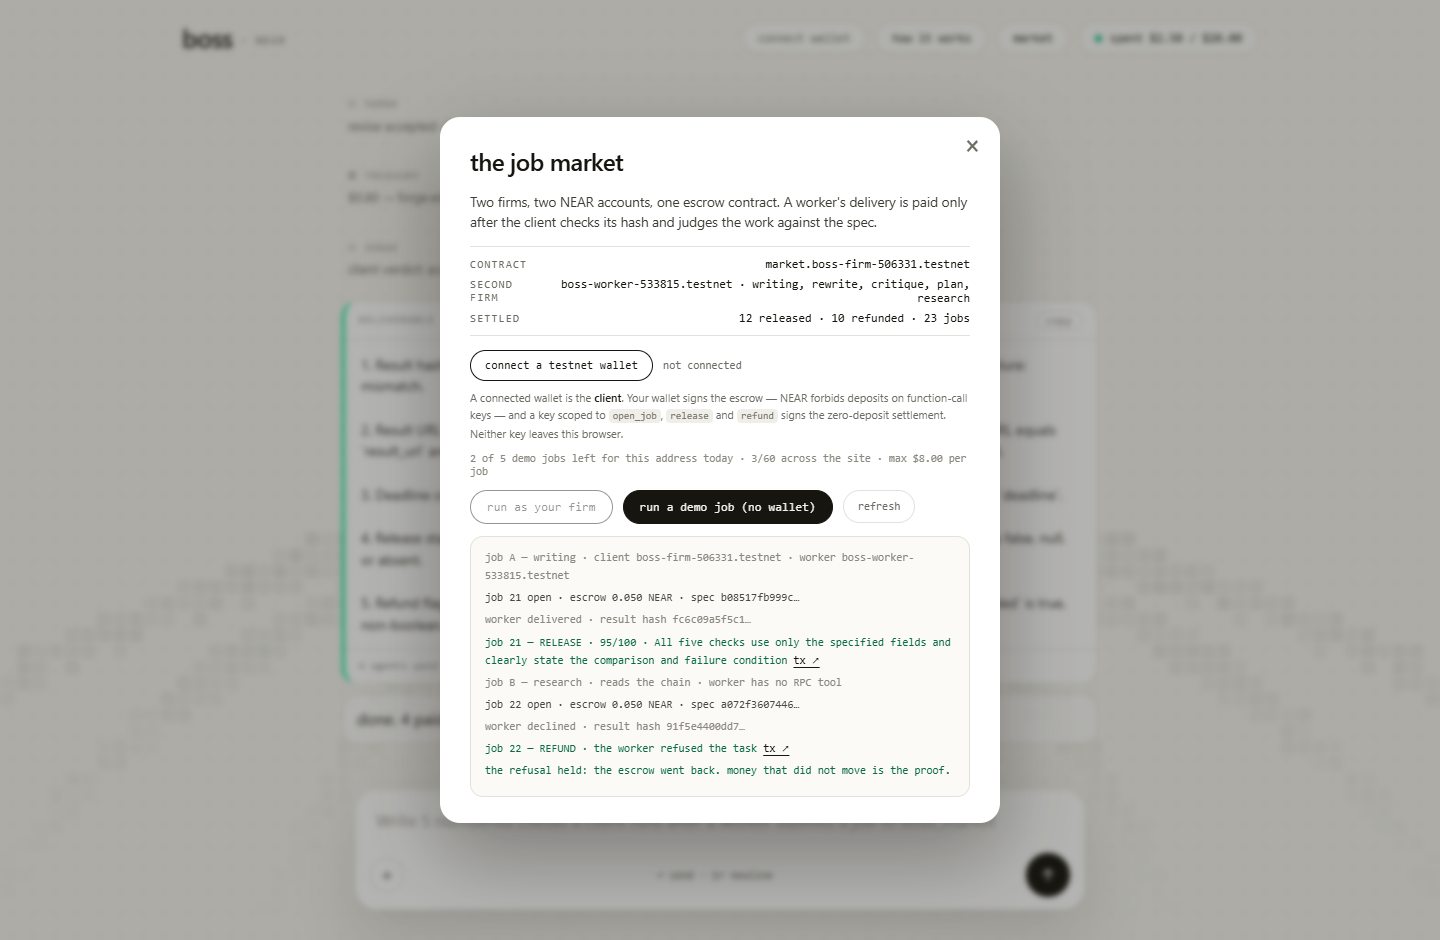
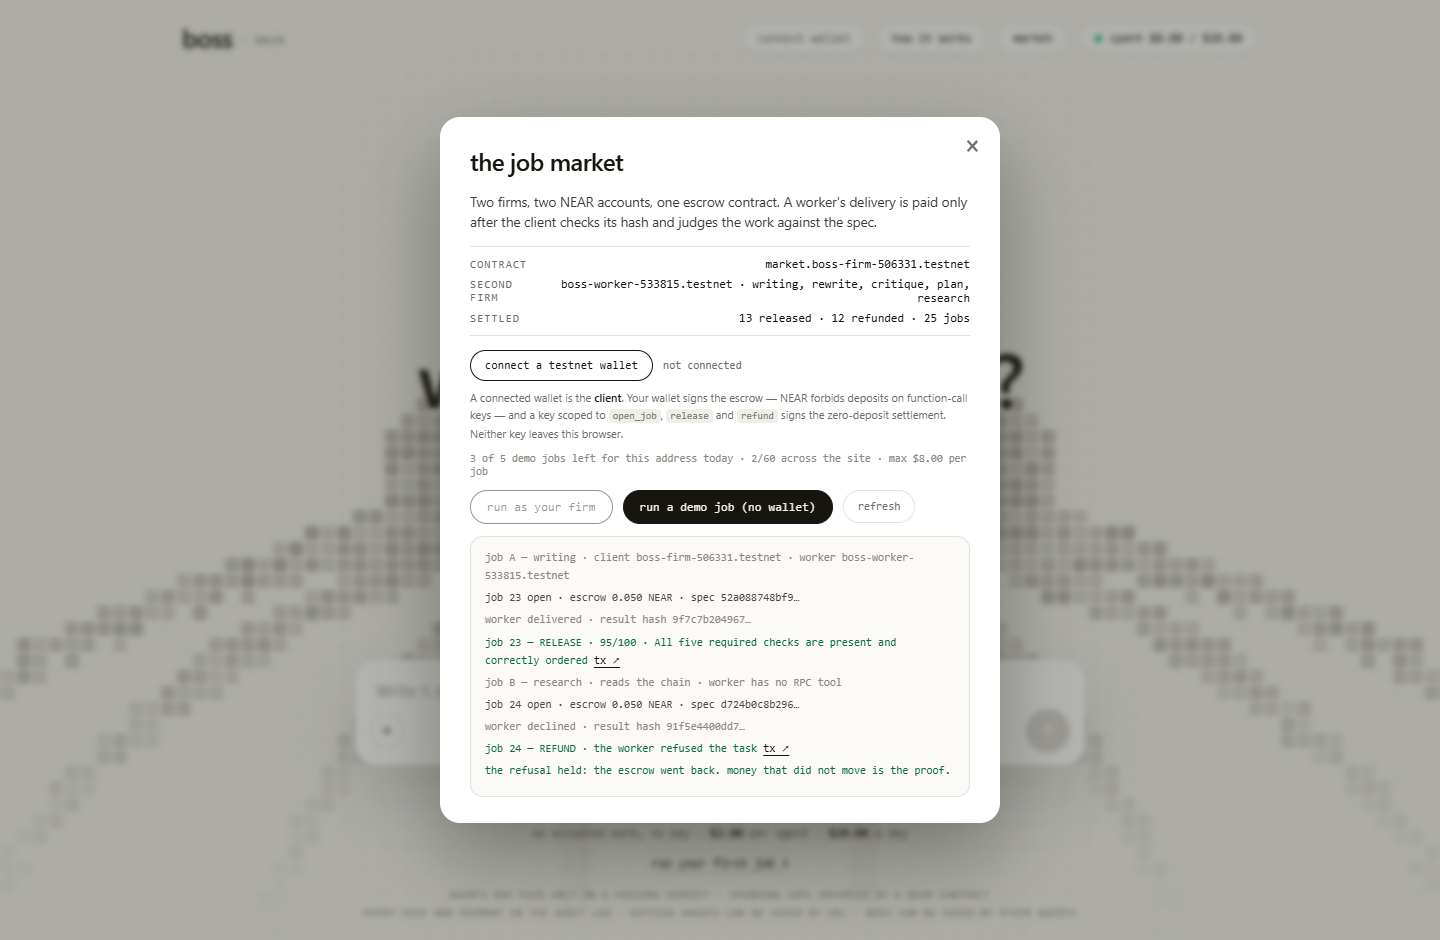
Make the composer grow with the brief and put the promise above the headline
A long brief used to scroll under the send button because the action row was absolutely positioned over a fixed-height textarea. The composer is now a column: the textarea sizes to its content (and to its placeholder, which phone widths wrap), and the row sits below it. The hero gains a one-line promise, the example brief now names the five release checks so the deliverable is usable, and both screenshots come from a fresh on-chain run (job 23 released 95/100, job 24 refunded).

diff --git a/frontend/index.html b/frontend/index.html
@@ -25,7 +25,10 @@
   </header>
 
   <main class="stage">
-    <h1 class="headline">what needs doing?</h1>
+    <div class="hero-copy">
+      <p class="sub">One brief, four hired agents, paid on NEAR only when the work passes.</p>
+      <h1 class="headline">what needs doing?</h1>
+    </div>
   </main>
 
   <section class="thread" id="thread" aria-live="polite"></section>
@@ -37,9 +40,9 @@
   </div>
 
   <form class="composer" id="composer" autocomplete="off">
-    <textarea id="task" name="task" rows="2" autofocus
+    <textarea id="task" name="task" rows="1" autofocus
       aria-label="What should BOSS do?"
-      placeholder="Write 5 numbered checks a client runs after a worker submits a job to boss_market"></textarea>
+      placeholder="Write 5 numbered checks a client runs before releasing a boss_market escrow"></textarea>
     <div class="composer-row">
       <button type="button" id="more" class="more" aria-label="cycle example briefs" title="cycle examples">+</button>
       <span class="hint">↵ send · ⇧↵ newline</span>
@@ -52,7 +55,7 @@
   </form>
 
   <div class="examples" id="examples">
-    <button type="button" data-task="Write 5 numbered checks a client runs after a worker submits a job to boss_market. Each check must use one of these fields - result_hash, result_url, deadline, released, refunded - and state what it compares and what counts as failure. Do not mention any other field. Under 120 words.">escrow checks</button>
+    <button type="button" data-task="Write 5 numbered checks a client runs before releasing a boss_market escrow. Cover, in order: (1) deadline is still in the future, (2) the SHA-256 of the bytes at result_url equals result_hash, (3) fetching result_url returns HTTP 200, (4) released is false, (5) refunded is false. One sentence each, naming the field and the failure condition. Under 120 words.">escrow checks</button>
     <button type="button" data-task="Write the refund notice for a delivery that missed its required source URL. State the failed check, not an apology. Under 80 words.">refund notice</button>
     <button type="button" data-task="Write the agent card for our research agent: capability, price, input, output, and the 2 checks a client can run before paying. Under 110 words.">agent card</button>
   </div>
@@ -70,7 +73,7 @@
       <li><b>you send a brief.</b> any words — a settlement checklist, a refund notice, an agent card.</li>
       <li><b>the firm splits it.</b> scout plans research → draft → critique → revise.</li>
       <li><b>it hires agents.</b> the cheapest capable agent wins, in-house or outside.</li>
-      <li><b>the judge checks the work.</b> rules first, then a model rubric. Fails are not paid.</li>
+      <li><b>the judge checks the work.</b> rules first, then a model rubric. fails are not paid.</li>
       <li><b>the treasury pays.</b> caps live in the contract, not in the prompt.</li>
     </ol>
     <div class="rules">
@@ -78,7 +81,7 @@
       <div class="rule"><span>per day</span><b>$20.00 cap</b></div>
       <div class="rule"><span>payment</span><b>only on a passing verdict</b></div>
     </div>
-    <p class="small">Built for the agent economy: an outside agent registers with a capability, a price and a stake, and can be hired by URL. BOSS itself answers on <code>POST /api/firm/work</code>, so another company or agent can hire it in one call.</p>
+    <p class="small">An outside agent registers with a capability, a price and an endpoint, and can be hired by URL. BOSS itself answers on <code>POST /api/firm/work</code>, so another company or agent can hire it in one call.</p>
   </div>
 </div>
 

diff --git a/frontend/app.js b/frontend/app.js
@@ -127,7 +127,25 @@ try {
 }
 
 // ---------- composer ----------
-taskEl.addEventListener("input", syncSend);
+// Size the box to what is actually painted. The placeholder is drawn like
+// content but is not part of scrollHeight, so an empty composer whose
+// placeholder wraps (a phone) would otherwise be cut off.
+function growTask() {
+  const had = taskEl.value;
+  if (!had) taskEl.value = taskEl.placeholder;
+  taskEl.style.height = "auto";
+  const height = taskEl.scrollHeight;
+  if (!had) taskEl.value = "";
+  taskEl.style.height = `${Math.max(height, 49)}px`;
+}
+
+growTask();
+window.addEventListener("resize", growTask);
+
+taskEl.addEventListener("input", () => {
+  growTask();
+  syncSend();
+});
 taskEl.addEventListener("keydown", (e) => {
   if (e.key === "Enter" && !e.shiftKey) {
     e.preventDefault();
@@ -140,6 +158,7 @@ let exampleIndex = -1;
 moreBtn.addEventListener("click", () => {
   exampleIndex = (exampleIndex + 1) % EXAMPLES.length;
   taskEl.value = EXAMPLES[exampleIndex];
+  growTask();
   syncSend();
   taskEl.focus();
 });
@@ -148,12 +167,14 @@ document.querySelector("#examples").addEventListener("click", (e) => {
   const btn = e.target.closest("button[data-task]");
   if (!btn) return;
   taskEl.value = btn.dataset.task;
+  growTask();
   syncSend();
   taskEl.focus();
 });
 
 document.querySelector("#cta").addEventListener("click", () => {
   taskEl.value = DEFAULT_TASK;
+  growTask();
   syncSend();
   form.requestSubmit();
 });
@@ -261,9 +282,10 @@ async function runMarketDemo() {
     const a = await postJob({
       capability: "writing",
       brief:
-        "Write 5 numbered checks a client runs after a worker submits a job to boss_market. " +
-        "Each check must use one of these fields - result_hash, result_url, deadline, released, refunded - " +
-        "and state what it compares and what counts as failure. Do not mention any other field. Under 120 words.",
+        "Write 5 numbered checks a client runs before releasing a boss_market escrow. " +
+        "Cover, in order: (1) deadline is still in the future, (2) the SHA-256 of the bytes at result_url equals result_hash, " +
+        "(3) fetching result_url returns HTTP 200, (4) released is false, (5) refunded is false. " +
+        "One sentence each, naming the field and the failure condition. Under 120 words.",
       acceptance: ["exactly 5 numbered checks", "each check names a field and a failure condition", "under 120 words"],
       depositUsd: 0.5,
       deadlineSecs: 900,
@@ -411,9 +433,10 @@ async function runOwnJob() {
   marketLog.replaceChildren();
   const brief =
     (taskEl.value || "").trim() ||
-    "Write 5 numbered checks a client runs after a worker submits a job to boss_market. " +
-      "Each check must use one of these fields - result_hash, result_url, deadline, released, refunded - " +
-      "and state what it compares and what counts as failure. Do not mention any other field. Under 120 words.";
+    "Write 5 numbered checks a client runs before releasing a boss_market escrow. " +
+      "Cover, in order: (1) deadline is still in the future, (2) the SHA-256 of the bytes at result_url equals result_hash, " +
+      "(3) fetching result_url returns HTTP 200, (4) released is false, (5) refunded is false. " +
+      "One sentence each, naming the field and the failure condition. Under 120 words.";
 
   try {
     mlog(`you are the client · ${wallet.accountId}`, "dim");
@@ -491,6 +514,7 @@ form.addEventListener("submit", async (e) => {
 
   add(brief, "user");
   taskEl.value = "";
+  growTask();
   syncSend();
 
   let paid = 0;

diff --git a/frontend/style.css b/frontend/style.css
@@ -91,6 +91,7 @@ body.chatting #swarm { opacity: 0.28; }
   cursor: pointer;
   transition: border-color .18s, background .18s, color .18s;
   backdrop-filter: blur(4px);
+  white-space: nowrap;
 }
 
 .pill:hover { border-color: var(--ink); background: #fff; }
@@ -111,6 +112,24 @@ body.chatting #swarm { opacity: 0.28; }
   text-align: center;
   padding: 4px 12px 0;
   min-height: 0;
+}
+
+.hero-copy {
+  display: flex;
+  flex-direction: column;
+  align-items: center;
+  gap: 12px;
+}
+
+.sub {
+  margin: 0;
+  max-width: 100%;
+  padding: 0 12px;
+  color: #7a7871;
+  font-size: clamp(12px, 1.2vw, 13.5px);
+  line-height: 1.4;
+  letter-spacing: 0.005em;
+  text-wrap: balance;
 }
 
 .headline {
@@ -136,6 +155,8 @@ body.chatting .stage { display: none; }
   border: 1px solid #eceae6;
   border-radius: 22px;
   box-shadow: 0 1px 2px rgba(22, 21, 15, 0.05), 0 28px 56px rgba(22, 21, 15, 0.12);
+  display: flex;
+  flex-direction: column;
 }
 
 #task {
@@ -145,12 +166,13 @@ body.chatting .stage { display: none; }
   outline: none;
   background: transparent;
   resize: none;
-  padding: 18px 20px 52px;
-  min-height: 78px;
+  padding: 18px 20px 6px;
+  min-height: 0;
   color: var(--ink);
   font-family: inherit;
   font-size: 17px;
   line-height: 1.45;
+  overflow-y: auto;
 }
 
 #task::placeholder { color: #a9a7a0; }
@@ -159,14 +181,11 @@ body.chatting .stage { display: none; }
 .composer:focus-within { border-color: #d8d6d0; }
 
 .composer-row {
-  position: absolute;
-  left: 14px;
-  right: 14px;
-  bottom: 12px;
   display: flex;
   align-items: center;
   justify-content: space-between;
   gap: 10px;
+  padding: 0 14px 12px;
 }
 
 .more {
@@ -680,6 +699,12 @@ body.chatting .thread { display: flex; }
   .headline { font-size: 42px; }
   .fineprint { font-size: 8.5px; letter-spacing: 0.08em; }
   .top-right .pill.meter { display: none; }
+  /* The header has three pills and a wordmark; on a phone the suffix is what
+     pushes the row into two lines. */
+  .wordmark .suf { display: none; }
+  .top-right { gap: 6px; }
+  .top-right .pill { padding: 7px 11px; font-size: 11px; }
+  .ruleline { font-size: 10.5px; letter-spacing: 0.02em; padding: 0 6px; }
   .thread { max-height: calc(100vh - 150px); }
 }
 

diff --git a/src/index.js b/src/index.js
@@ -5,9 +5,10 @@ function parseArgs(argv) {
   const args = {
     budget: 20,
     brief:
-      "Write 5 numbered checks a client runs after a worker submits a job to boss_market. " +
-      "Each check must use one of these fields - result_hash, result_url, deadline, released, refunded - " +
-      "and state what it compares and what counts as failure. Do not mention any other field. Under 120 words.",
+      "Write 5 numbered checks a client runs before releasing a boss_market escrow. " +
+      "Cover, in order: (1) deadline is still in the future, (2) the SHA-256 of the bytes at result_url equals result_hash, " +
+      "(3) fetching result_url returns HTTP 200, (4) released is false, (5) refunded is false. " +
+      "One sentence each, naming the field and the failure condition. Under 120 words.",
   };
   for (let i = 2; i < argv.length; i++) {
     if (argv[i] === "--budget") args.budget = Number(argv[++i]);

diff --git a/README.md b/README.md
@@ -32,10 +32,10 @@ Two independent firms run two real jobs on NEAR testnet. Job A delivers a settle
 
 | Job | What happened | Settlement |
 |---|---|---|
-| A — settlement checklist | worker delivered bytes, client matched the hash, judged 95/100 | [released 0.05 NEAR](https://testnet.nearblocks.io/txns/F2ohpRSb2XMGwLZthknTGUodrcVdFxjXWYxSm4kPRegM) |
-| B — read the treasury balance | worker declined instead of inventing a number; the client's rules caught it | [refunded 0.05 NEAR](https://testnet.nearblocks.io/txns/C7xtSj52c7nt3RxXeg4NfMGtsrYTbqtikW72JybUqwFb) |
+| A — settlement checklist | worker delivered bytes, client matched the hash, judged 95/100 | [released 0.05 NEAR](https://testnet.nearblocks.io/txns/FGeRUZLsaxG3aeF8ocMN1w65mCbYXDQZ8VtNbsNZWFaK) |
+| B — read the treasury balance | worker declined instead of inventing a number; the client's rules caught it | [refunded 0.05 NEAR](https://testnet.nearblocks.io/txns/3Q7UrAgpCS6iomCakXb8Xq2r7LtQgMJzJ3uE4X9mXukY) |
 
-The escrow was opened for [job B](https://testnet.nearblocks.io/txns/9tzqRunDp1t8nxW8YSxSbZAqkYbHvxZnfLoAH4DWy4T4) and settles in the two transactions above. The contract is [`market.boss-firm-506331.testnet`](https://testnet.nearblocks.io/address/market.boss-firm-506331.testnet).
+The escrow was opened for [job B](https://testnet.nearblocks.io/txns/E4CWUi3H2XnR3gceZHk9gRZBqGiAuQBAvvLpYB4nx31n) and settles in the two transactions above. The contract is [`market.boss-firm-506331.testnet`](https://testnet.nearblocks.io/address/market.boss-firm-506331.testnet).
 
 ![The market panel after a run from the browser: job A released, job B refunded](docs/boss-market.png)
 
